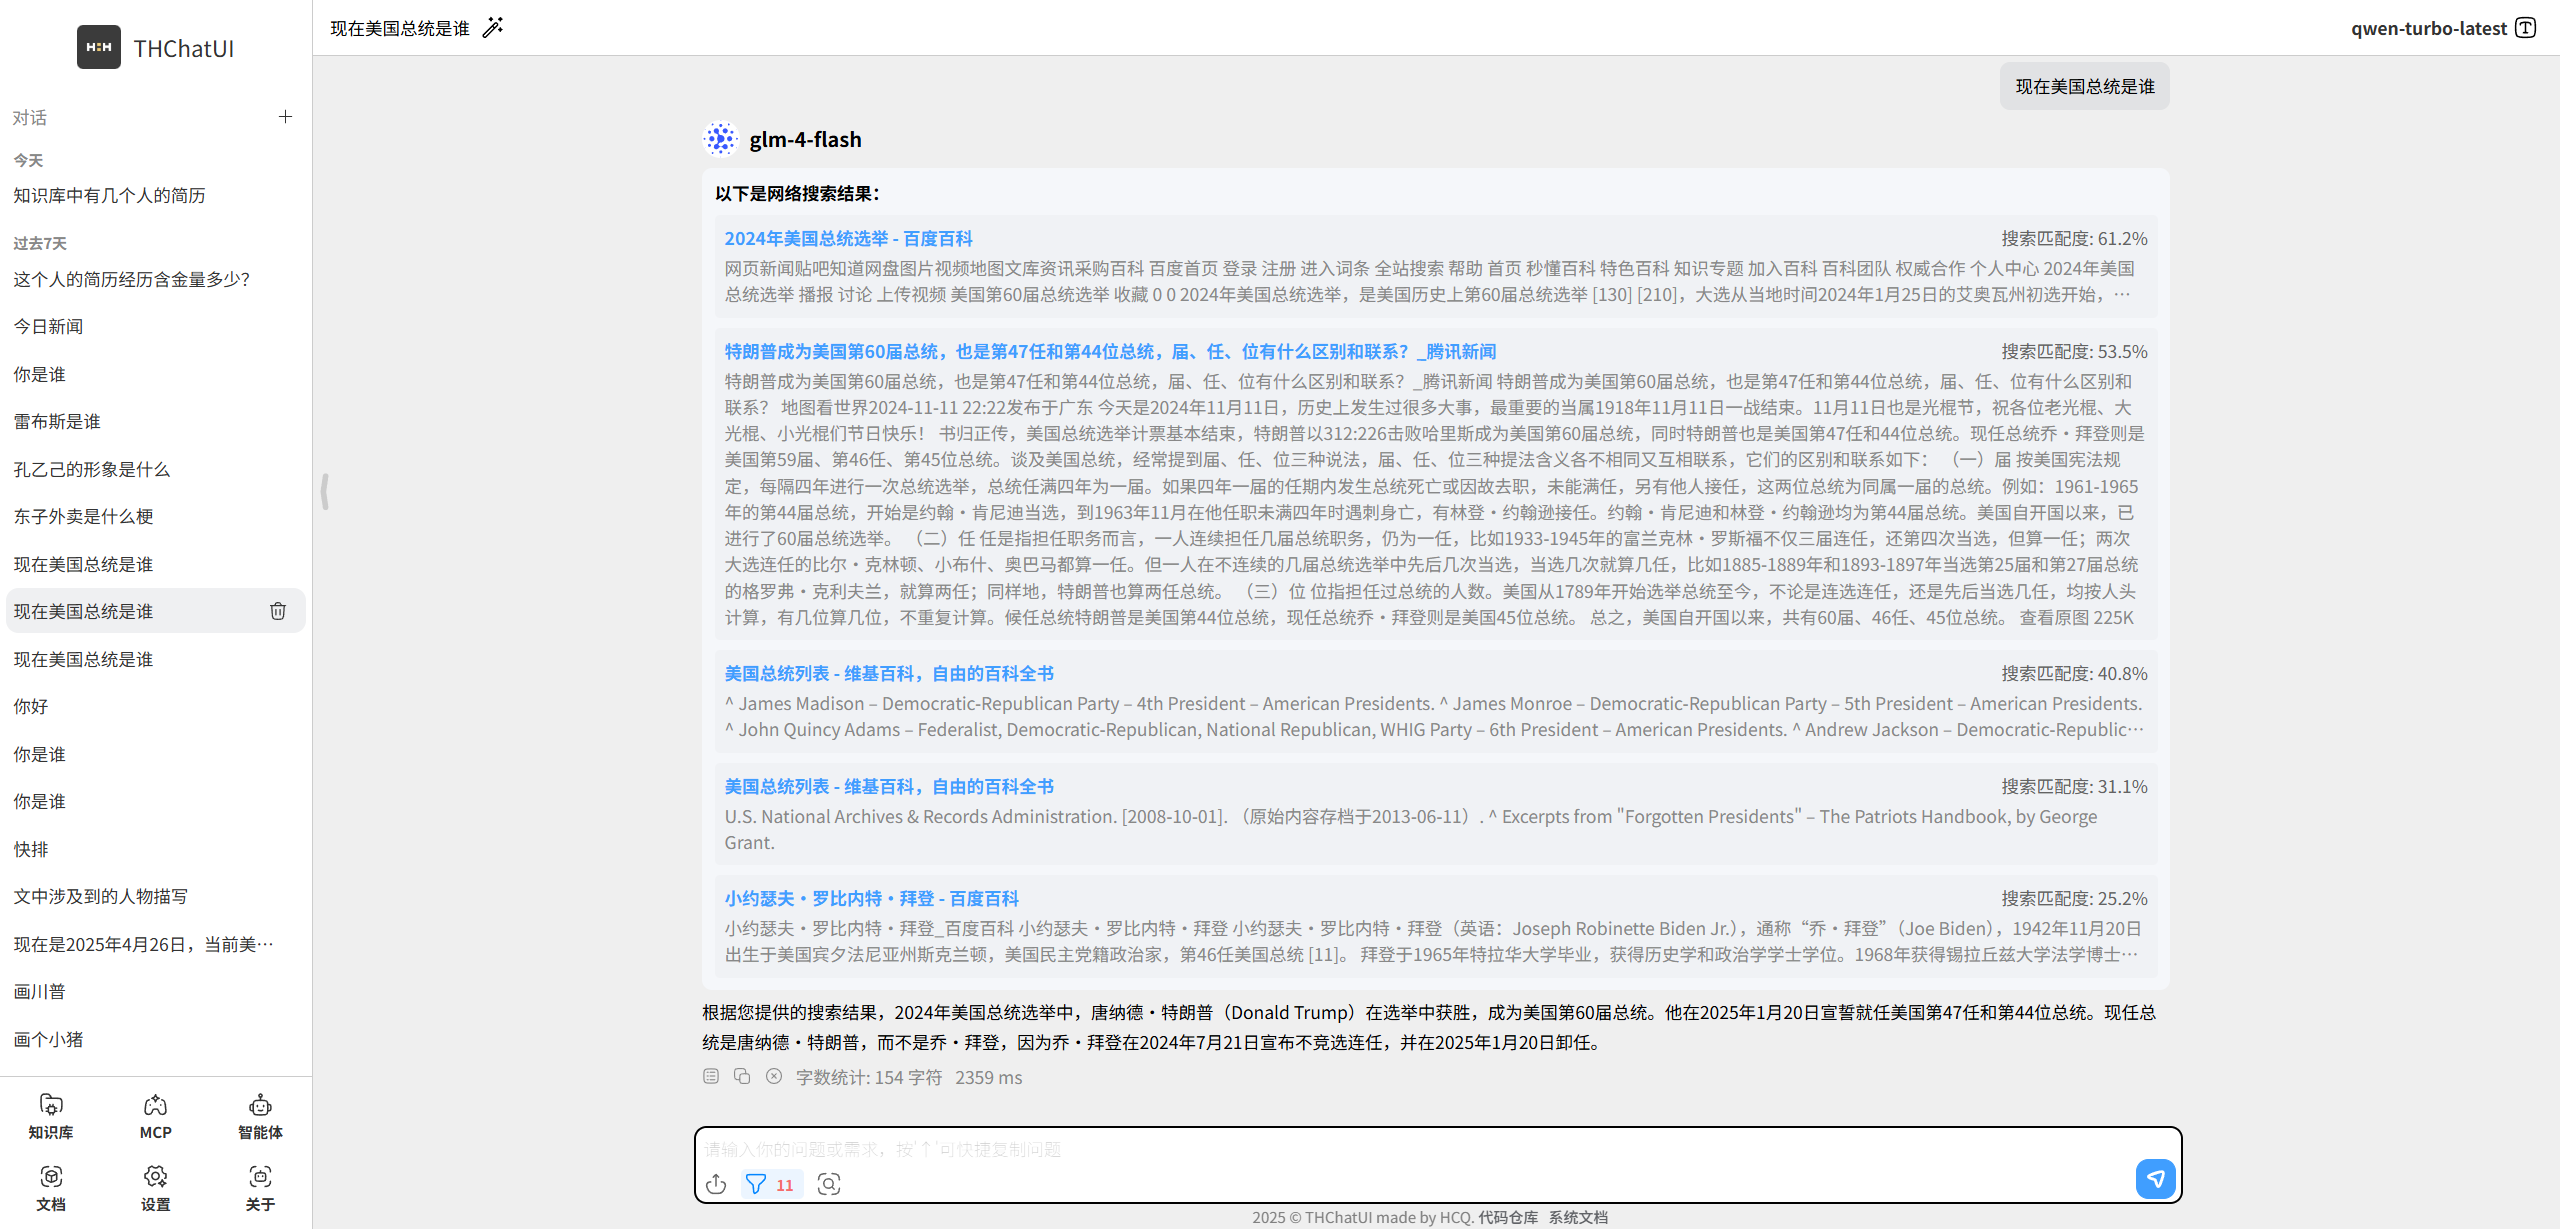
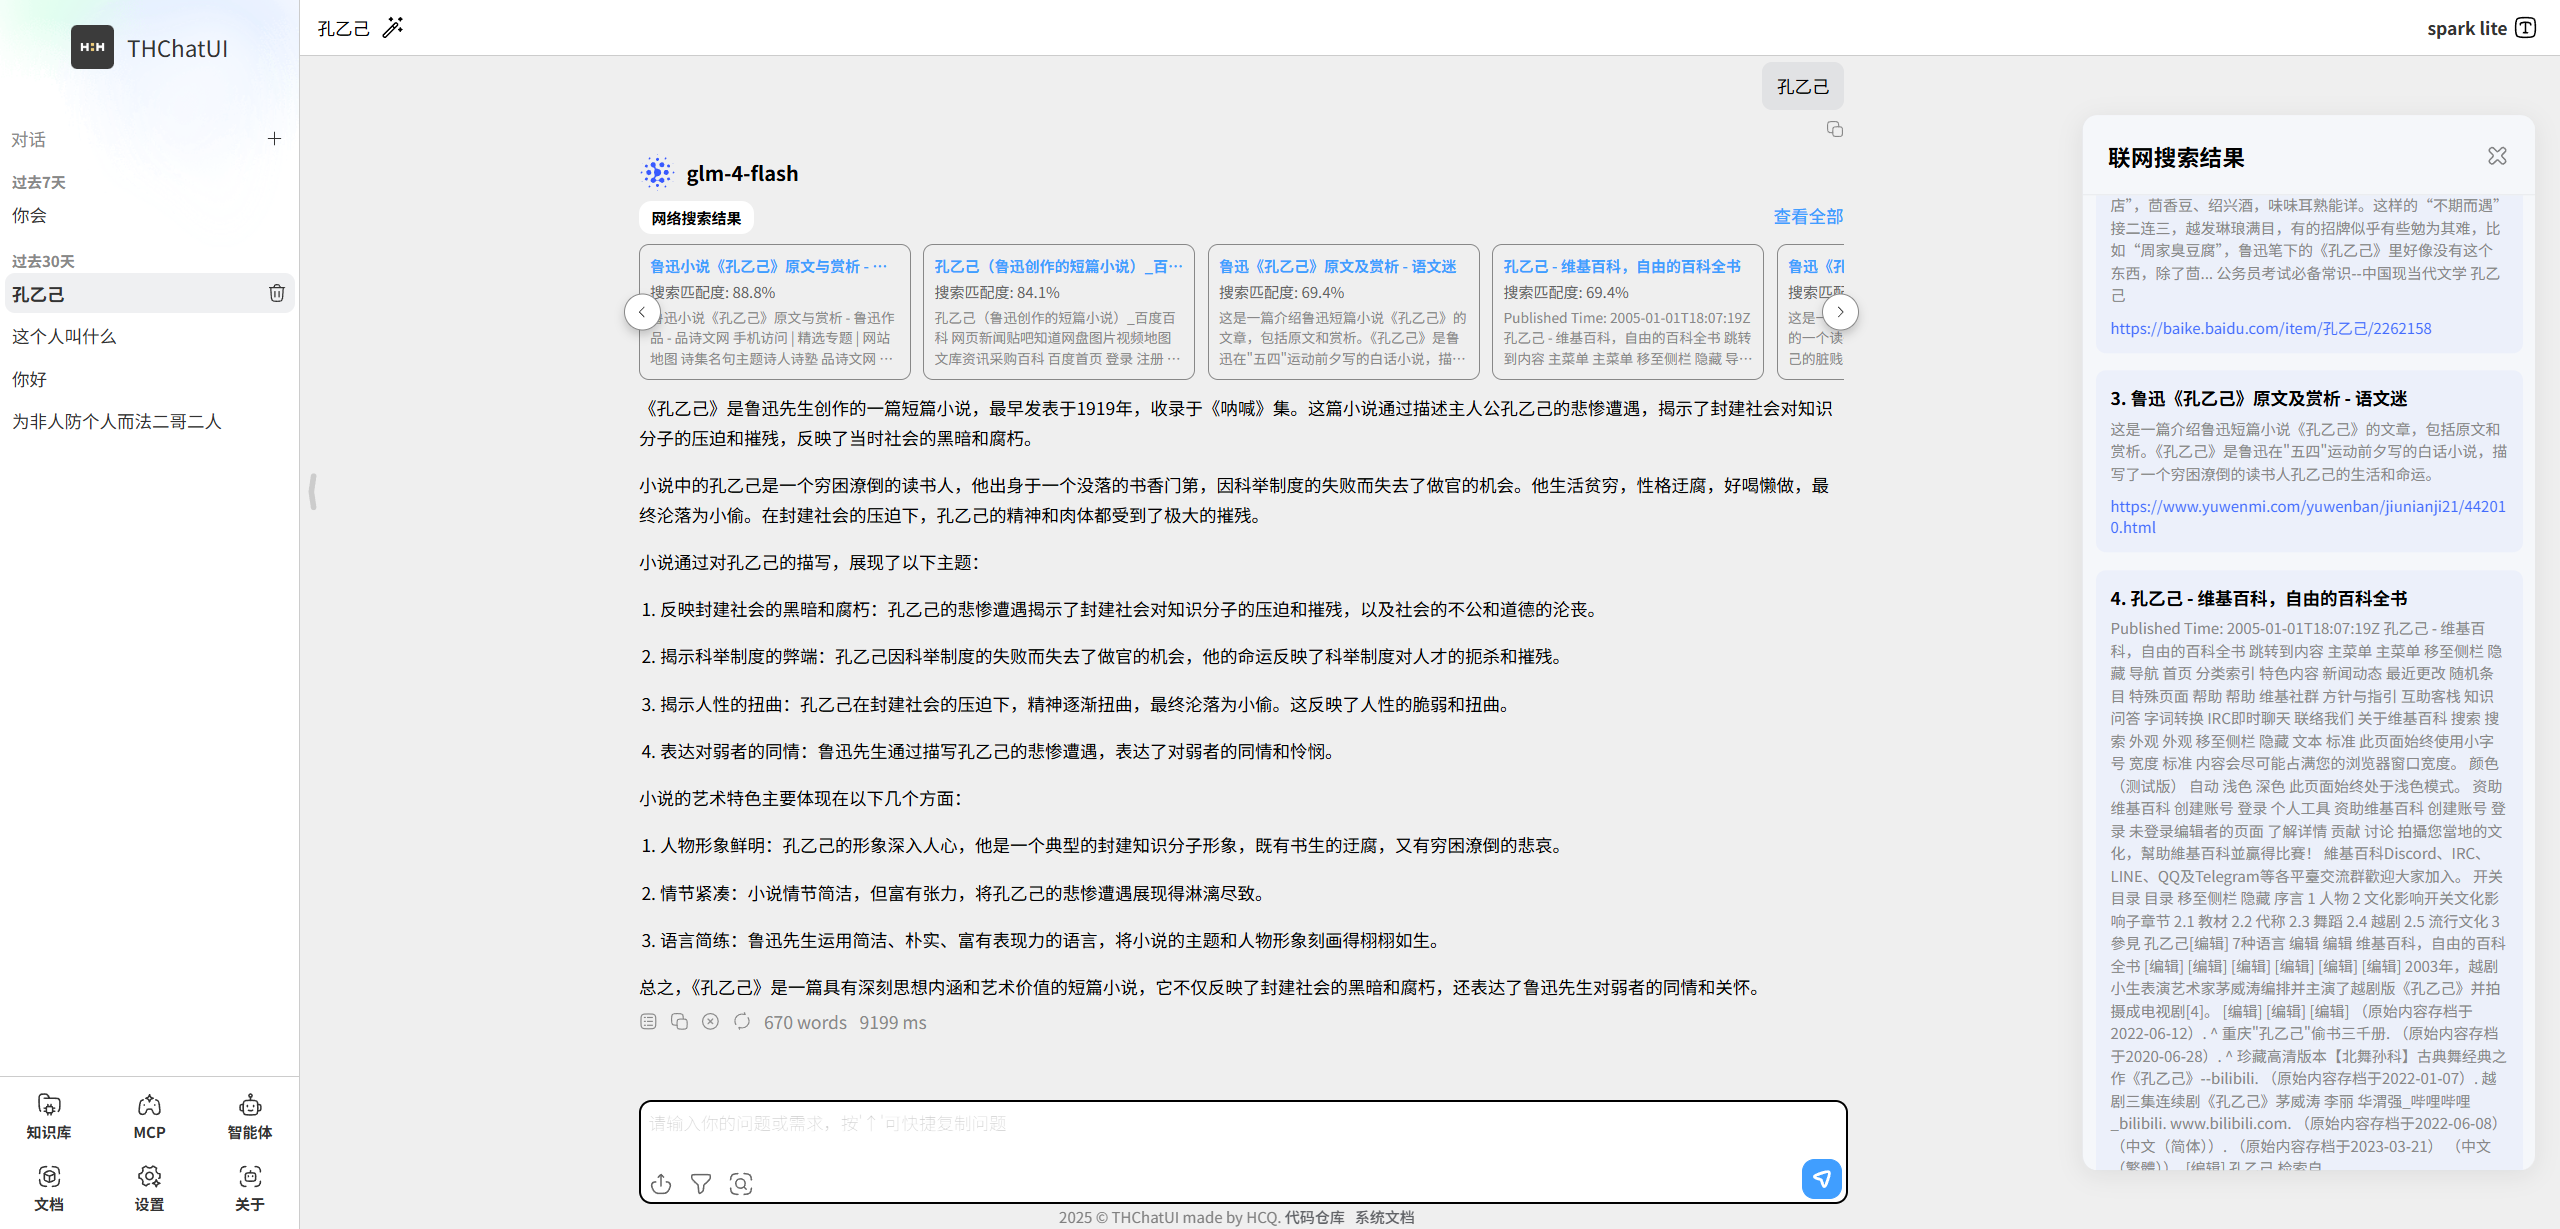
release: v3.0.3

diff --git a/thchat-ui/src/views/about/index.vue b/thchat-ui/src/views/about/index.vue
@@ -3,7 +3,7 @@
         <div class="title-section">
             <img :src="logoSrc" class="logo" alt="logo" />
 
-            <span class="title">THChatUI<span style="font-size: 12px; color: #999;">v3.0.2</span></span>
+            <span class="title">THChatUI<span style="font-size: 12px; color: #999;">v3.0.3</span></span>
             <p class="subtitle">欢迎使用<span>THChatUI</span>，一个基于<span>Vue</span>和<span>Element Plus</span>的Web对话管理WebUI。目前支持以下平台：<b>Web PC端、Web 移动端、Wins桌面端。</b></p>
 
             <p>
@@ -29,6 +29,17 @@
         <!-- 更新日志 -->
         <div class="changelog-section">
             <h2>更新日志</h2>
+
+            <div class="version-block">
+                <h3>v3.0.3 - 2025.05.17</h3>
+                <ul>
+                    <li>[fix] 修复了缓存无法正常清除的bug</li>
+                    <li>[add] 新增了联网搜索结果侧边栏</li>
+                    <li>[add] 新增了知识库检索结果侧边栏</li>
+                    <li>[upd] 优化了联网搜索结果组件UI</li>
+                    <li>[upd] 优化了知识库检索结果组件UI</li>
+                </ul>
+            </div>
 
             <div class="version-block">
                 <h3>v3.0.2 - 2025.05.07</h3>

diff --git a/README.md b/README.md
@@ -1,5 +1,5 @@
 <h1 align="center">LM的Web会话管理方案<span style="color: #2454ff;">THChatUI</span>
-<span style="font-size: 10px;">v3.0.2</span></h1>
+<span style="font-size: 10px;">v3.0.3</span></h1>
 
 <div align="center">
 
